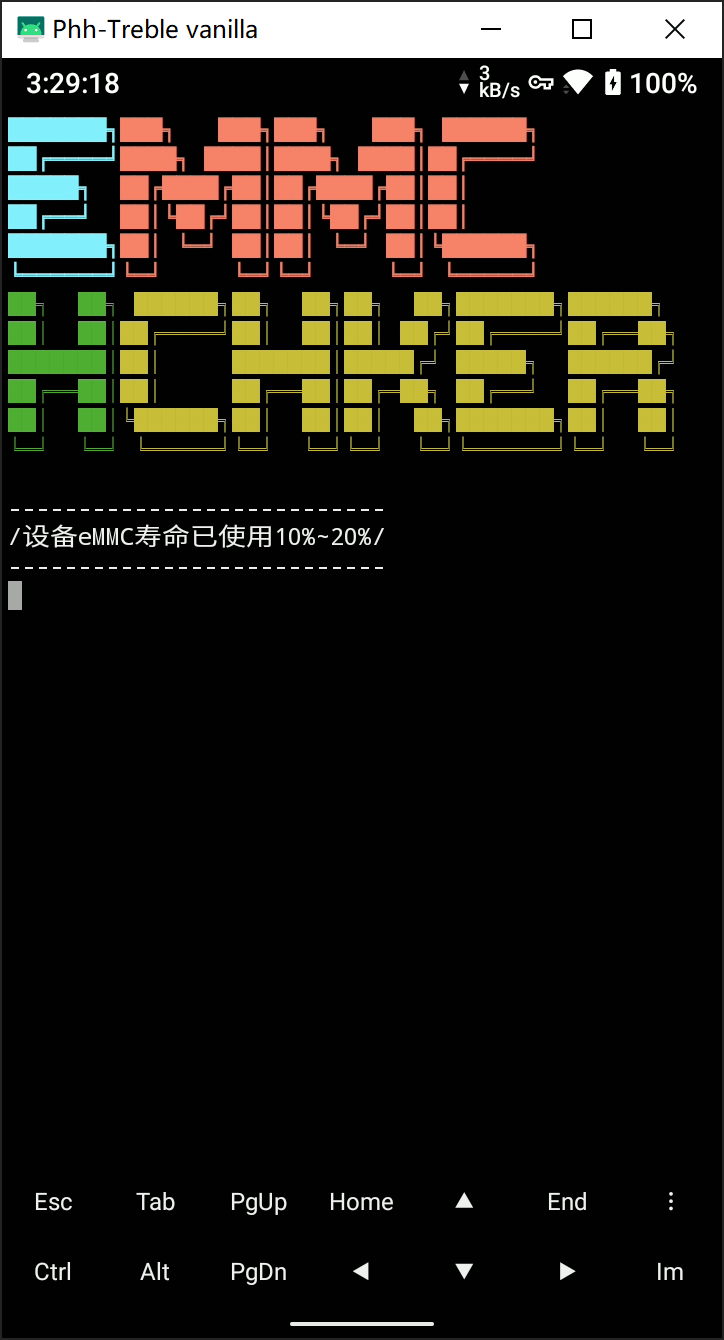
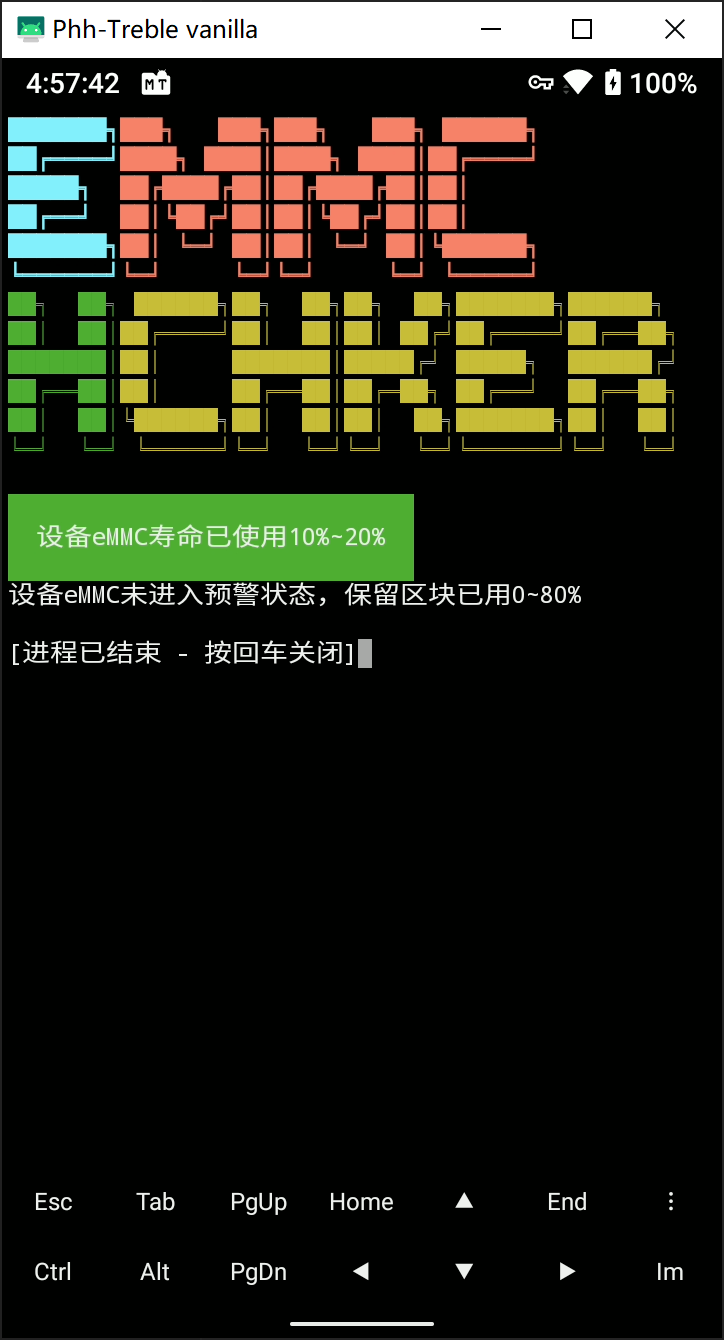
add color & eol check

diff --git a/README.md b/README.md
@@ -5,5 +5,8 @@ A script for checking emmc healthy life
 
 Goal:
 - [x] 基本的读取eMMC已用寿命信息
-- [ ] 基本的读取eMMC保留区块使用信息
+- [x] 基本的读取eMMC保留区块使用信息
+- [x] 添加颜色显示
+- [ ] 更改文字输出为图形条状
 - [ ] 读取eMMC的附加信息，如**生产日期，品牌型号和料号**
+- [ ] More...（？
